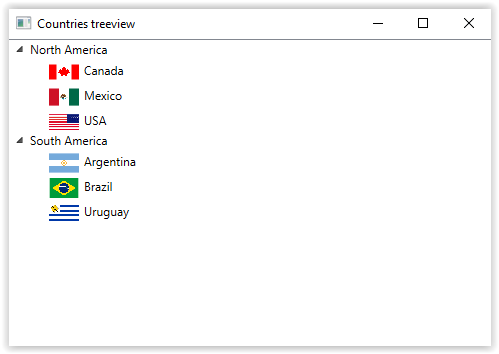
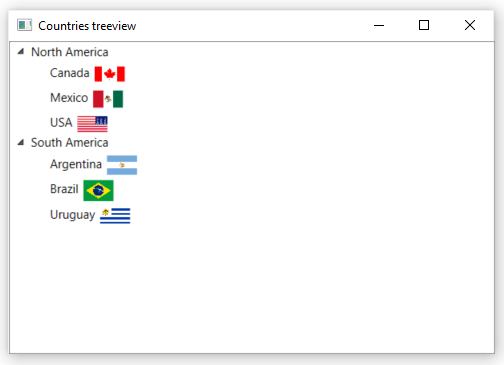
alter exercise 5 of chapter 2

Changed region(s): [[0.0, 0.0311, 0.992, 0.9944], [0.0301, 0.1864, 0.2705, 0.6215]]

diff --git a/Chapter2_WPF_Controls/Exercise5.Tests/MainWindowTests.cs b/Chapter2_WPF_Controls/Exercise5.Tests/MainWindowTests.cs
@@ -100,34 +100,32 @@ namespace Exercise5.Tests
             var stackPanel = countryItem.Header as StackPanel;
 
             Assert.That(stackPanel, Is.Not.Null,
-                () =>
-                    $"The country 'TreeViewItem' at position {positionInTree} should have a 'StackPanel' in its 'Header'.");
+                $"The country 'TreeViewItem' at position {positionInTree} should have a 'StackPanel' in its 'Header'.");
             Assert.That(stackPanel.Orientation, Is.EqualTo(Orientation.Horizontal),
-                () =>
-                    $"The country 'TreeViewItem' at position {positionInTree} should have a 'StackPanel' with a horizontal 'Orientation'.");
+                $"The country 'TreeViewItem' at position {positionInTree} should have a 'StackPanel' with a horizontal 'Orientation'.");
             Assert.That(stackPanel.Children, Has.Count.EqualTo(2),
-                () =>
-                    $"The country 'TreeViewItem' at position {positionInTree} should have a 'StackPanel' with 2 child controls.");
+                $"The country 'TreeViewItem' at position {positionInTree} should have a 'StackPanel' with 2 child controls.");
 
             Assert.That(countryItem.Margin.Top > 0 || stackPanel.Margin.Top > 0, Is.True,
-                () =>
-                    "There should be some space between the country items. " +
-                    "You can achieve this by adding some 'Margin' on the top of the 'TreeViewItem' or the 'StackPanel'. " +
-                    $"No top margin could by found for the country at position {positionInTree}.");
+                "There should be some space between the country items. " +
+                "You can achieve this by adding some 'Margin' on the top of the 'TreeViewItem' or the 'StackPanel'. " +
+                $"No top margin could by found for the country at position {positionInTree}.");
 
-            var image = stackPanel.Children[0] as Image;
-            Assert.That(image, Is.Not.Null,
-                () =>
-                    $"The 'StackPanel' of the country at position {positionInTree} should have an 'Image' control.");
-
-            var textBlock = stackPanel.Children[1] as TextBlock;
+            var textBlock = stackPanel.Children[0] as TextBlock;
             Assert.That(textBlock, Is.Not.Null,
-                () =>
-                    $"The 'StackPanel' of the country at position {positionInTree} should have an 'TextBlock' control.");
+                $"The 'StackPanel' of the country at position {positionInTree} should have a 'TextBlock' control as the first element.");
 
-            Assert.That(image.Margin.Right > 0 || textBlock.Margin.Left > 0, Is.True,
-                () =>
-                    $"There should be some space (Margin) between the 'Image' and the 'TextBlock' of the country at position {positionInTree}.");
+            var image = stackPanel.Children[1] as Image;
+            Assert.That(image, Is.Not.Null,
+                $"The 'StackPanel' of the country at position {positionInTree} should have an 'Image' control as the second element.");
+            Assert.That(image.Source, Is.Not.Null,
+                $"The 'Source' of the 'Image' of the country at position {positionInTree} should be set.");
+            Assert.That(image.Width > 0 || image.Height > 0, Is.True,
+                $"The width or height of the image of the country at position {positionInTree} must be set. " +
+                "Otherwise the image will be too big.");
+
+            Assert.That(textBlock.Margin.Right > 0 || image.Margin.Left > 0, Is.True,
+                $"There should be some space (Margin) between the 'TextBlock' and the 'Image' of the country at position {positionInTree}.");
         }
     }
 }
